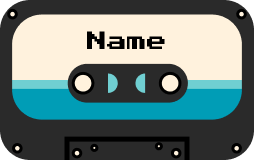
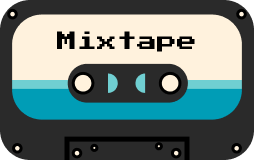
delete modal html and basic css

Changed region(s): [[0.2205, 0.1875, 0.7717, 0.3438]]

diff --git a/src/developing_the_interactive_web_project_1_group_7/templates/my_mixtape.html b/src/developing_the_interactive_web_project_1_group_7/templates/my_mixtape.html
@@ -7,14 +7,20 @@
 <link rel="stylesheet" href="{{ url_for('static', filename='edit_mixtape.css') }}">
 
 <section>
-<div class="container modal" id="delete-modal">
-    <div class="pure-g">
-        <div class="modal-header">
-            <h3 style="color: black;">Delete Mixtape</h3>
-        </div>
-        <p style="color: black;">Are you sure you want to delete this mixtape?</p>
-    </div>
-</div>
+
+<link rel="stylesheet" href="style.css">
+
+<dialog id="my-dialog">
+    <h4>Delete Mixtape</h4>
+  <p>Are you sure you want to delete this mixtape?</p>
+  <div class="pure-g">
+    <div class="pure-u-1-2">
+  <button commandfor="my-dialog" command="close">Cancel</button></div>
+    <div class="pure-u-1-2">
+  <button commandfor="my-dialog" command="close">Delete</button></div></div>
+  </div>
+</dialog>
+
 
 
 <div class="pure-g">
@@ -31,7 +37,9 @@
                 <i class="fa-regular fa-pen-to-square" style="font-size: 22px; "></i>
             </div>
             <div class="pure-1-4" onclick="document.getElementById('delete-modal').style.display='block'">
+               <button command="show-modal" commandfor="my-dialog" style="background: none; border: none; color: white;">
                 <i class="fa-solid fa-trash-can" style="font-size: 22px; "></i>
+               </button>
             </div>
         </div>
         <div class="pure-g">

diff --git a/src/developing_the_interactive_web_project_1_group_7/static/edit_mixtape.css b/src/developing_the_interactive_web_project_1_group_7/static/edit_mixtape.css
@@ -71,3 +71,51 @@
     box-sizing: border-box;
     padding: 50px 80px 20px 120px;
 }
+
+/* Modal container - hidden by default */
+.modal {
+    position: fixed;
+    top: 0;
+    left: 0;
+    right: 0;
+    bottom: 0;
+    background-color: rgba(0, 0, 0, 0.6);
+    opacity: 0;
+    pointer-events: none;
+    transition: opacity 0.3s ease;
+    
+    /* Center the modal content */
+    display: flex;
+    align-items: center;
+    justify-content: center;
+    z-index: 100;
+}
+
+/* When the modal is targeted via URL hash, make it visible */
+.modal:target {
+    opacity: 1;
+    pointer-events: auto;
+}
+
+/* Modal content box */
+.modal-content {
+    background-color: white;
+    padding: 2rem;
+    border-radius: 6px;
+    width: 90%;
+    max-width: 500px;
+    max-height: 90vh;
+    overflow-y: auto;
+    box-shadow: 0 5px 30px rgba(0, 0, 0, 0.2);
+}
+
+/* Backdrop close link - covers the entire screen */
+.modal-backdrop {
+    position: absolute;
+    top: 0;
+    left: 0;
+    right: 0;
+    bottom: 0;
+    cursor: default;
+    z-index: -1; /* Place behind modal content */
+}
